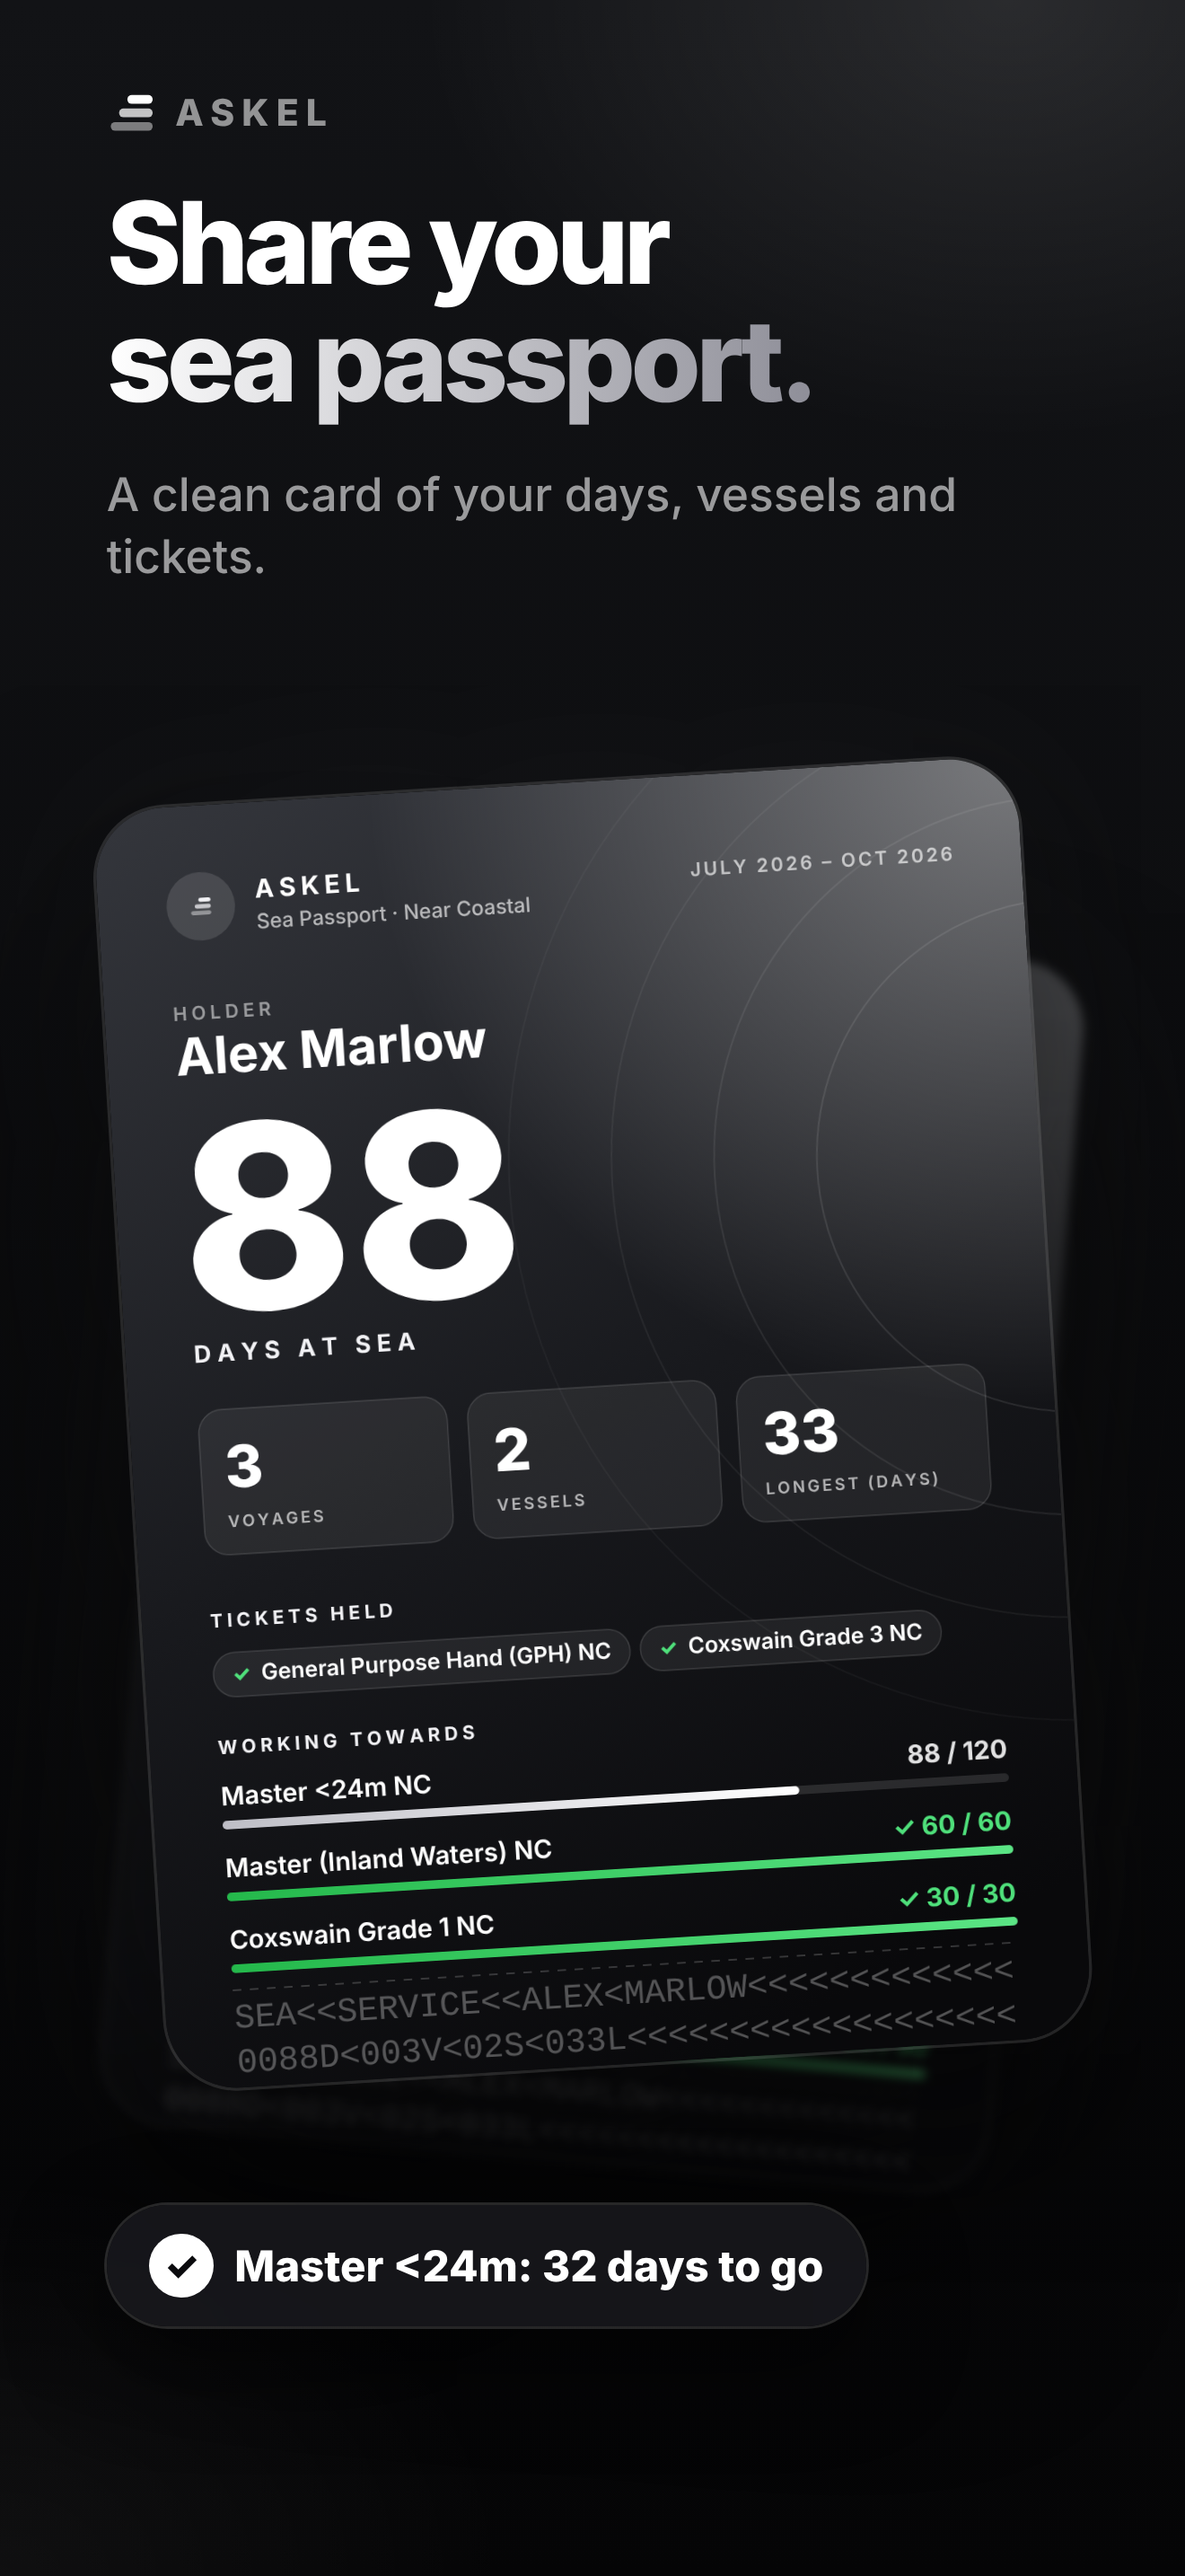
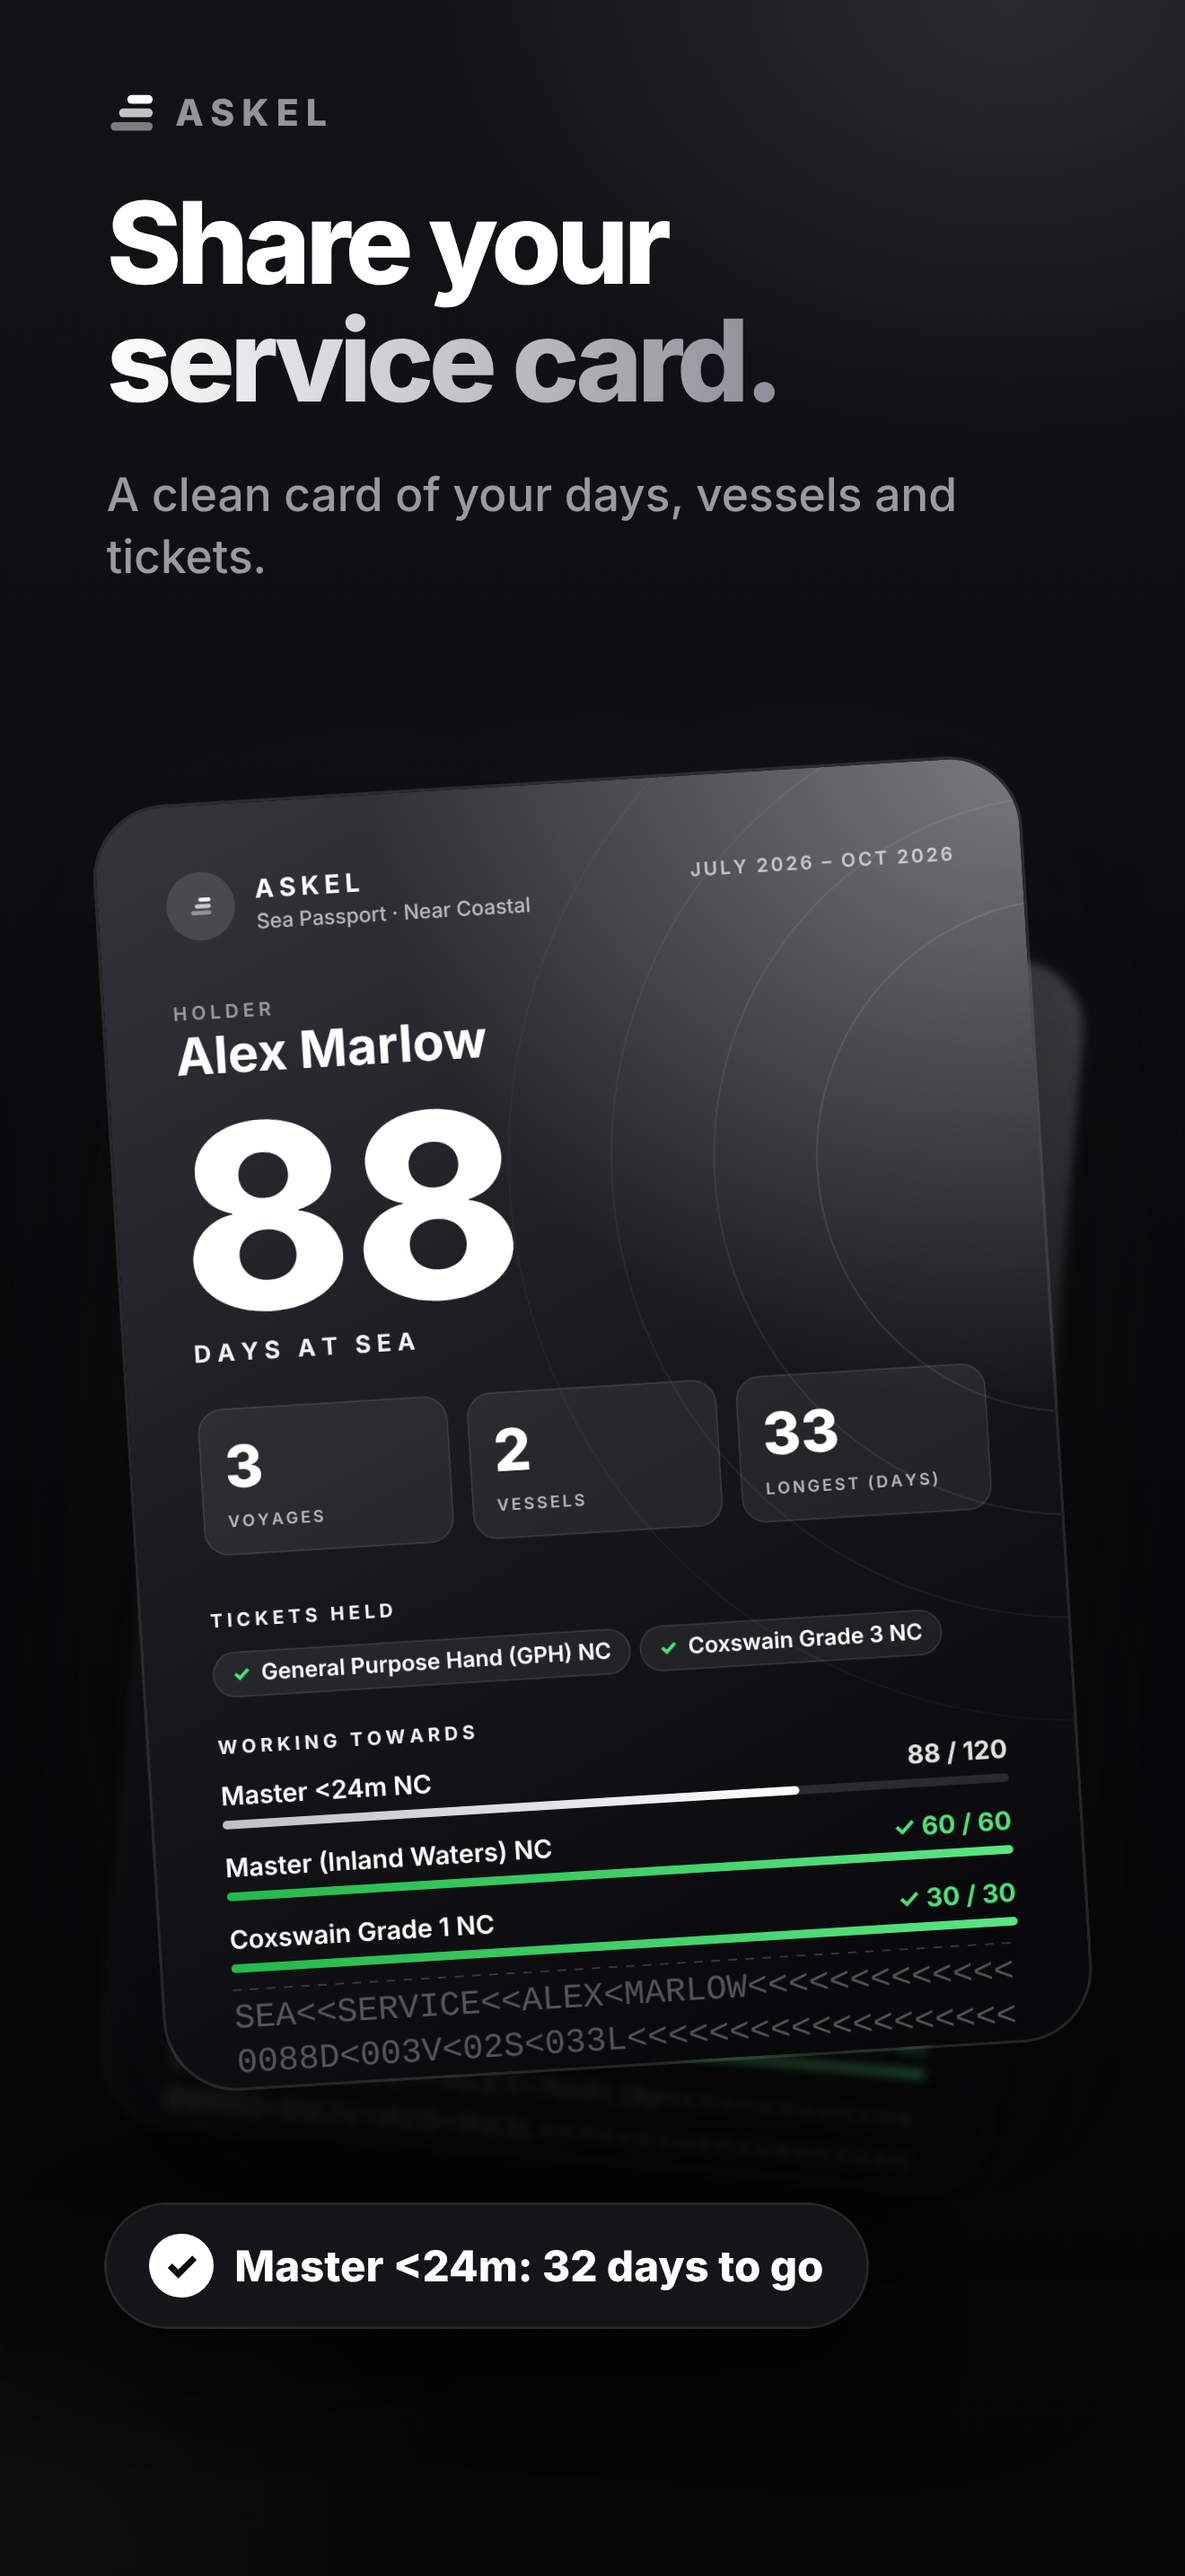
Rename Sea Passport to Service Card
Claude-Session: https://claude.ai/code/session_014hkVmfGYH1MY1u5uVD119d

Changed region(s): [[0.1864, 0.1241, 0.6833, 0.1862]]

diff --git a/app/index.html b/app/index.html
@@ -586,7 +586,7 @@
   </header>
 
   <section class="hero rise d1">
-    <button class="hero-share" id="exportBtn" aria-label="Share sea passport" title="Share your sea passport">
+    <button class="hero-share" id="exportBtn" aria-label="Share your service card" title="Share your service card">
       <svg width="19" height="19" viewBox="0 0 24 24" fill="none" stroke="currentColor" stroke-width="2" stroke-linecap="round" stroke-linejoin="round"><path d="M12 3v12"/><path d="M8 7l4-4 4 4"/><path d="M5 12v7a2 2 0 0 0 2 2h10a2 2 0 0 0 2-2v-7"/></svg>
     </button>
     <div class="hero-label">Total qualifying days</div>
@@ -680,18 +680,18 @@
 </button>
 
 <div class="overlay" id="shareOverlay">
-  <div class="sheet" id="shareSheet" role="dialog" aria-modal="true" aria-label="Share sea passport">
+  <div class="sheet" id="shareSheet" role="dialog" aria-modal="true" aria-label="Share your service card">
     <div class="sheet-head" id="shareHead">
       <div class="grabber"></div>
       <div class="sheet-title-row">
-        <h2>Sea Passport</h2>
+        <h2>Service Card</h2>
         <button class="close-btn" id="closeShareBtn" aria-label="Close">
           <svg width="14" height="14" viewBox="0 0 24 24" fill="none" stroke="currentColor" stroke-width="3" stroke-linecap="round"><line x1="18" y1="6" x2="6" y2="18"/><line x1="6" y1="6" x2="18" y2="18"/></svg>
         </button>
       </div>
     </div>
     <div class="sheet-body">
-      <div class="passport-wrap"><img id="passportImg" alt="Sea passport card summarising your sea service" /></div>
+      <div class="passport-wrap"><img id="passportImg" alt="Service card summarising your sea service" /></div>
       <div class="style-row" id="styleRow" role="radiogroup" aria-label="Card style"></div>
       <p class="field-hint" style="text-align:center;margin:14px 0 14px;">Touch and hold the card to save it to Photos.</p>
       <div class="form-card">
@@ -1969,7 +1969,7 @@
     x.restore();
     x.textBaseline = 'alphabetic';
     x.fillStyle = T.ink; x.font = '700 30px ' + F; spaced('ASKEL', PAD + 104, 112, 6);
-    x.fillStyle = T.muted; x.font = '500 24px ' + F; x.fillText('Sea Passport · Near Coastal', PAD + 104, 148);
+    x.fillStyle = T.muted; x.font = '500 24px ' + F; x.fillText('Service Card · Near Coastal', PAD + 104, 148);
     if (period) { x.fillStyle = T.muted; x.font = '600 22px ' + F; spaced(period, W - PAD, 118, 3, 'right'); }
 
     // Holder
@@ -2080,8 +2080,8 @@
   $('shareBtn').addEventListener('click', function () {
     if (!passportBlob) return;
     var file = null;
-    try { file = new File([passportBlob], 'sea-passport.png', { type: 'image/png' }); } catch (err) {}
-    if (NATIVE && nativePlugin('Share')) { nativeShareFile(passportBlob, 'askel-passport.png', 'My sea service').catch(function (err) { if (!(err && /cancel/i.test(String(err.message || err)))) copyImageFallback(); }); return; }
+    try { file = new File([passportBlob], 'askel-service-card.png', { type: 'image/png' }); } catch (err) {}
+    if (NATIVE && nativePlugin('Share')) { nativeShareFile(passportBlob, 'askel-service-card.png', 'My sea service').catch(function (err) { if (!(err && /cancel/i.test(String(err.message || err)))) copyImageFallback(); }); return; }
     if (file && navigator.share && navigator.canShare && navigator.canShare({ files: [file] })) {
       navigator.share({ files: [file], title: 'My sea service' }).catch(function (err) { if (err && err.name !== 'AbortError') copyImageFallback(); });
     } else { copyImageFallback(); }

diff --git a/index.html b/index.html
@@ -253,7 +253,7 @@
     <div class="screens">
       <div class="screen reveal"><figure><img src="demo/home.png" width="780" height="1328" alt="Askel home screen showing total qualifying days and tickets being worked towards" loading="lazy"><figcaption><b>Progress at a glance</b>Total days, and a progress bar for each ticket they are chasing.</figcaption></figure></div>
       <div class="screen reveal"><figure><img src="demo/tickets.png" width="780" height="1328" alt="Tickets tab showing tickets ready to apply and in progress" loading="lazy"><figcaption><b>Ready, in progress, not started</b>Every ticket sorted by how close it is, with what counts toward each.</figcaption></figure></div>
-      <div class="screen reveal"><figure><img src="demo/passport.png" width="780" height="1082" alt="Sea passport share card" loading="lazy"><figcaption><b>A sea passport to share</b>A clean card of days, vessels and tickets held.</figcaption></figure></div>
+      <div class="screen reveal"><figure><img src="demo/passport.png" width="780" height="1082" alt="Service card share image" loading="lazy"><figcaption><b>A service card to share</b>A clean card of days, vessels and tickets held.</figcaption></figure></div>
       <div class="screen reveal"><figure><img src="demo/form771.png" width="716" height="515" alt="AMSA Form 771 filled in with a supervisor signature" loading="lazy"><figcaption><b>Form 771, filled in</b>Details and the supervisor's signature placed onto AMSA's own form.</figcaption></figure></div>
     </div>
   </div>

diff --git a/store/_video.html b/store/_video.html
@@ -40,7 +40,7 @@ html,body{width:100%;height:100%;overflow:hidden;background:#050506;font-family:
  <div class="cap layer" id="cap2"><h1>See exactly<br><em>how close you are.</em></h1><p>Progress toward every near coastal ticket.</p></div>
  <div class="cap layer" id="cap3"><h1>Signed in<br><em>30 seconds.</em></h1><p>Your supervisor signs from a link. No account, no meeting.</p></div>
  <div class="cap layer" id="cap4"><h1>Form 771,<br><em>filled in for you.</em></h1><p>Your details and their signature, placed on the form.</p></div>
- <div class="cap layer" id="cap5"><h1>Share your<br><em>sea passport.</em></h1><p>A clean card of your days, vessels and tickets.</p></div>
+ <div class="cap layer" id="cap5"><h1>Share your<br><em>service card.</em></h1><p>A clean card of your days, vessels and tickets.</p></div>
  <div class="cap layer" id="cap6"><h1>Built for the<br><em>whole crew.</em></h1><p>Operators see every ticket pipeline in one dashboard.</p></div>
  <!-- visuals -->
  <div class="layer" id="v1"><div class="phone"><div class="scr"><img id="v1a" src="raw/home.png"><img id="v1b" src="raw/home-entries.png"><div class="isl"></div></div></div></div>

diff --git a/app/sw.js b/app/sw.js
@@ -1,5 +1,5 @@
 // Offline support: cache the app shell, serve cache first, refresh in background.
-var CACHE = 'askel-app-v8';
+var CACHE = 'askel-app-v9';
 var ASSETS = ['./', 'index.html', 'manifest.json', '../icon-180.png', '../icon-192.png', '../icon-512.png', '../AMSA_771.pdf', '../pdf-lib.min.js', '../cloud.js', '../sign.html', '../dashboard.html'];
 
 self.addEventListener('install', function (e) {
